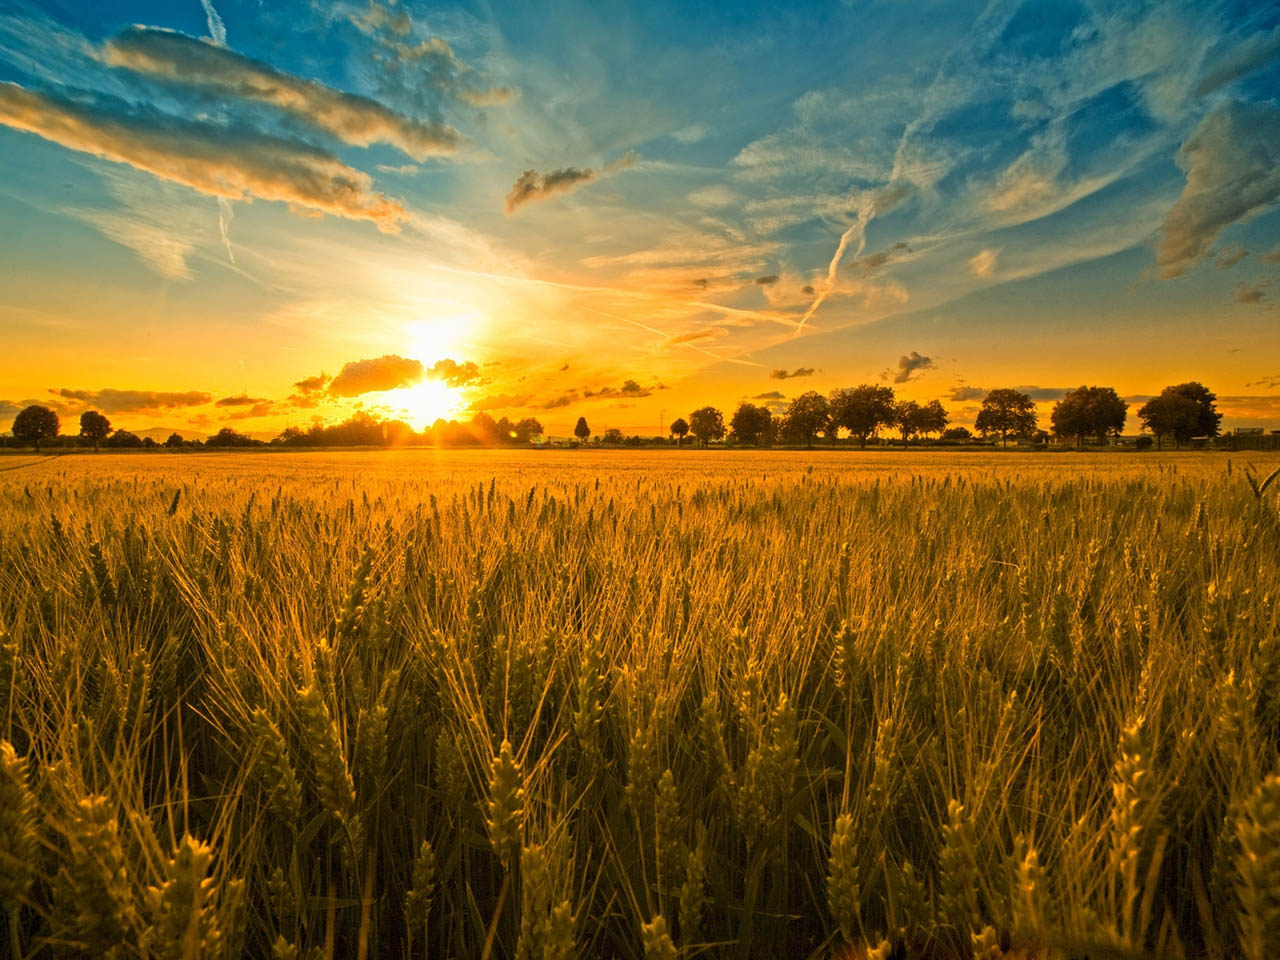
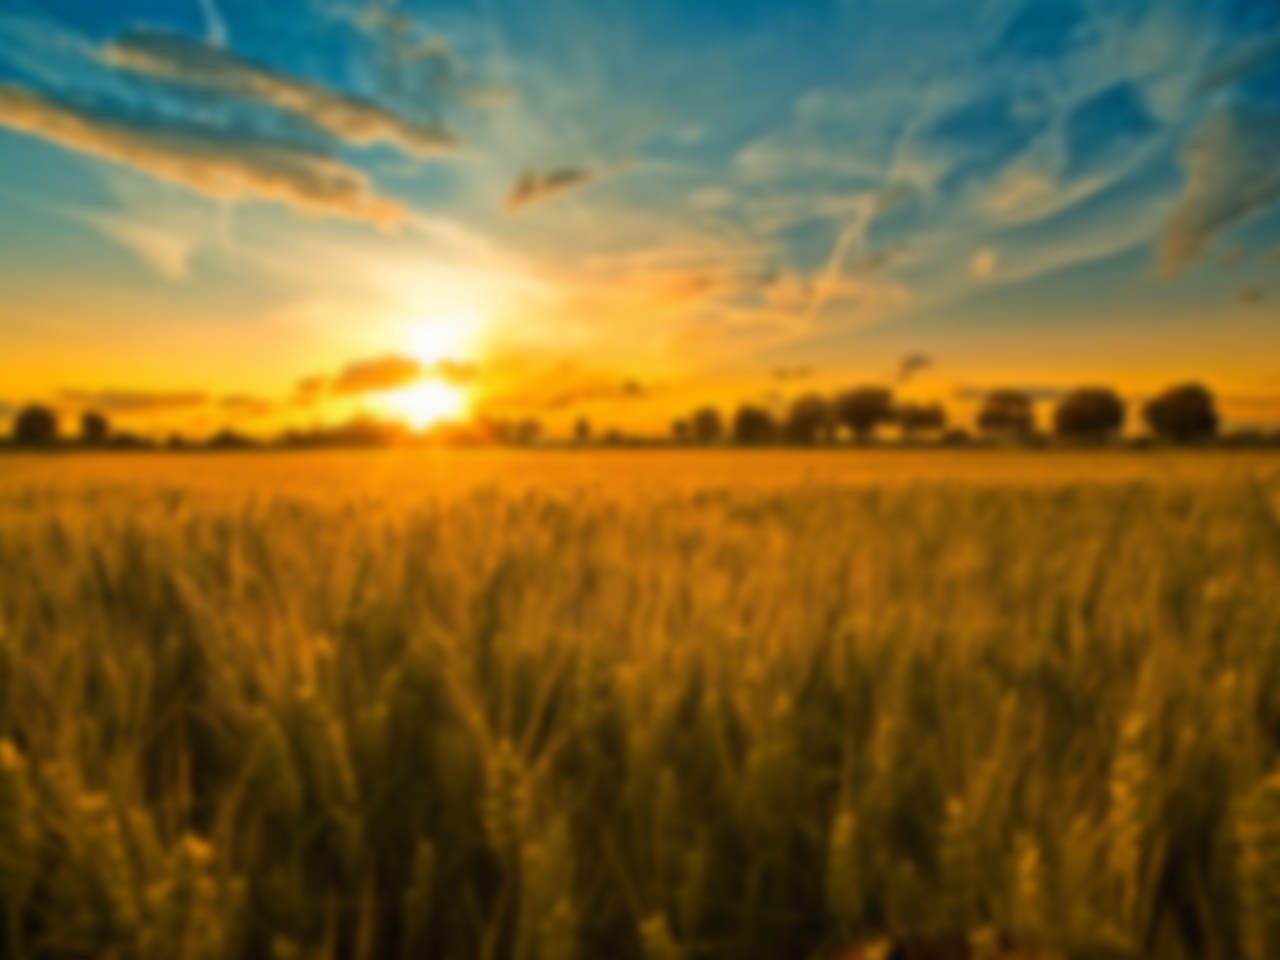
no blur

diff --git a/fb_zindustria_agrosoluciones/index.html b/fb_zindustria_agrosoluciones/index.html
@@ -307,7 +307,7 @@ document.oncontextmenu = function(){return false;}
  <div class="page-content">
 
     <div data-pagination=".swiper-pagination" data-parallax="true" data-nextButton=".swiper-button-next" data-prevButton=".swiper-button-prev" data-speed="600" class="swiper-container swiper-init ks-parallax-slider">
-      <div data-swiper-parallax="-23%" style="background-image:url(img/banner.jpg)" class="blur swiper-parallax-bg"></div>
+      <div data-swiper-parallax="-23%" style="background-image:url(img/banner.jpg)" class="swiper-parallax-bg"></div>
       <div class="swiper-pagination color-white"></div>
       <div class="swiper-button-next color-white"></div>
       <div class="swiper-button-prev color-white"></div>
